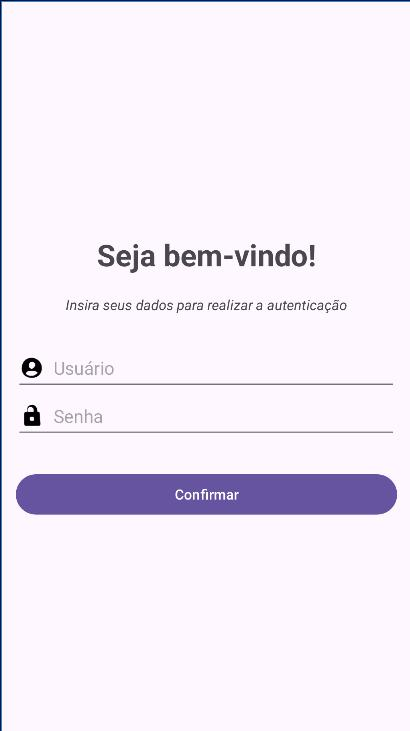
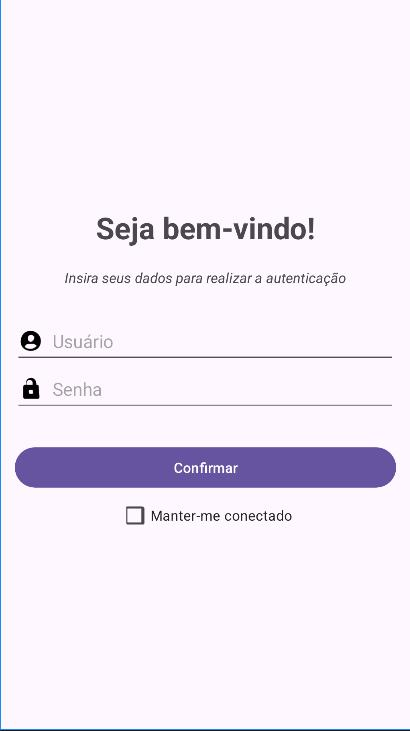
main

Changed region(s): [[0.0, 0.0, 1.0, 1.0], [0.1463, 0.301, 0.8488, 0.4213]]

diff --git a/CardapioDigital/app/src/main/java/marceloviana1991/cardapiodigital/LoginActivity.kt b/CardapioDigital/app/src/main/java/marceloviana1991/cardapiodigital/LoginActivity.kt
@@ -1,6 +1,7 @@
 package marceloviana1991.cardapiodigital
 
 import android.content.Intent
+import android.content.SharedPreferences
 import android.os.Bundle
 import android.widget.Toast
 import androidx.activity.enableEdgeToEdge
@@ -20,6 +21,7 @@ class LoginActivity : AppCompatActivity() {
     private val binding by lazy {
         ActivityLoginBinding.inflate(layoutInflater)
     }
+
     override fun onCreate(savedInstanceState: Bundle?) {
         super.onCreate(savedInstanceState)
         enableEdgeToEdge()
@@ -30,16 +32,36 @@ class LoginActivity : AppCompatActivity() {
             insets
         }
 
+        val sharedPref = getSharedPreferences("APP_PREFS", MODE_PRIVATE)
+        val loginGravado = sharedPref.getString("LOGIN", "") ?: ""
+        val senhaGravado = sharedPref.getString("SENHA", "") ?: ""
+        if (loginGravado.isNotEmpty()) {
+            lifecycleScope.launch {
+                val response = RetrofitClient.instance.login(LoginRequest(loginGravado, senhaGravado))
+                if (response.isSuccessful) {
+                    val token = response.body()?.token
+                    sharedPref.edit().putString("TOKEN", token).apply()
+                }
+                val intent = Intent(this@LoginActivity, MainActivity::class.java)
+                startActivity(intent)
+                finish()
+            }
+        }
+
         binding.buttonConfirmar.setOnClickListener {
             lifecycleScope.launch {
                 try {
                     val login = binding.editTextLogin.text.toString()
                     val senha = binding.editTextSenha.text.toString()
+                    val checkbox = binding.chkKeepMeLogged.isChecked
                     val response = RetrofitClient.instance.login(LoginRequest(login, senha))
                     if (response.isSuccessful) {
                         val token = response.body()?.token
-                        val sharedPref = getSharedPreferences("APP_PREFS", MODE_PRIVATE)
                         sharedPref.edit().putString("TOKEN", token).apply()
+                        if (checkbox) {
+                            sharedPref.edit().putString("LOGIN", login).apply()
+                            sharedPref.edit().putString("SENHA", senha).apply()
+                        }
                         val intent = Intent(this@LoginActivity, MainActivity::class.java)
                         startActivity(intent)
                         finish()

diff --git a/CardapioDigital/app/src/main/java/marceloviana1991/cardapiodigital/MainActivity.kt b/CardapioDigital/app/src/main/java/marceloviana1991/cardapiodigital/MainActivity.kt
@@ -1,5 +1,6 @@
 package marceloviana1991.cardapiodigital
 
+import android.content.Intent
 import android.os.Bundle
 import android.widget.Toast
 import androidx.activity.enableEdgeToEdge
@@ -29,8 +30,18 @@ class MainActivity : AppCompatActivity() {
             insets
         }
 
+        val sharedPref = getSharedPreferences("APP_PREFS", MODE_PRIVATE)
+
+        binding.imageButton.setOnClickListener {
+            sharedPref.edit().putString("LOGIN", "").apply()
+            sharedPref.edit().putString("SENHA", "").apply()
+            val intent = Intent(this, LoginActivity::class.java)
+            startActivity(intent)
+            finish()
+        }
+
         lifecycleScope.launch {
-            val sharedPref = getSharedPreferences("APP_PREFS", MODE_PRIVATE)
+
             val token = sharedPref.getString("TOKEN", "") ?: ""
             try {
                 val responseGrupo = RetrofitClient.instance.listarGrupos(token)
